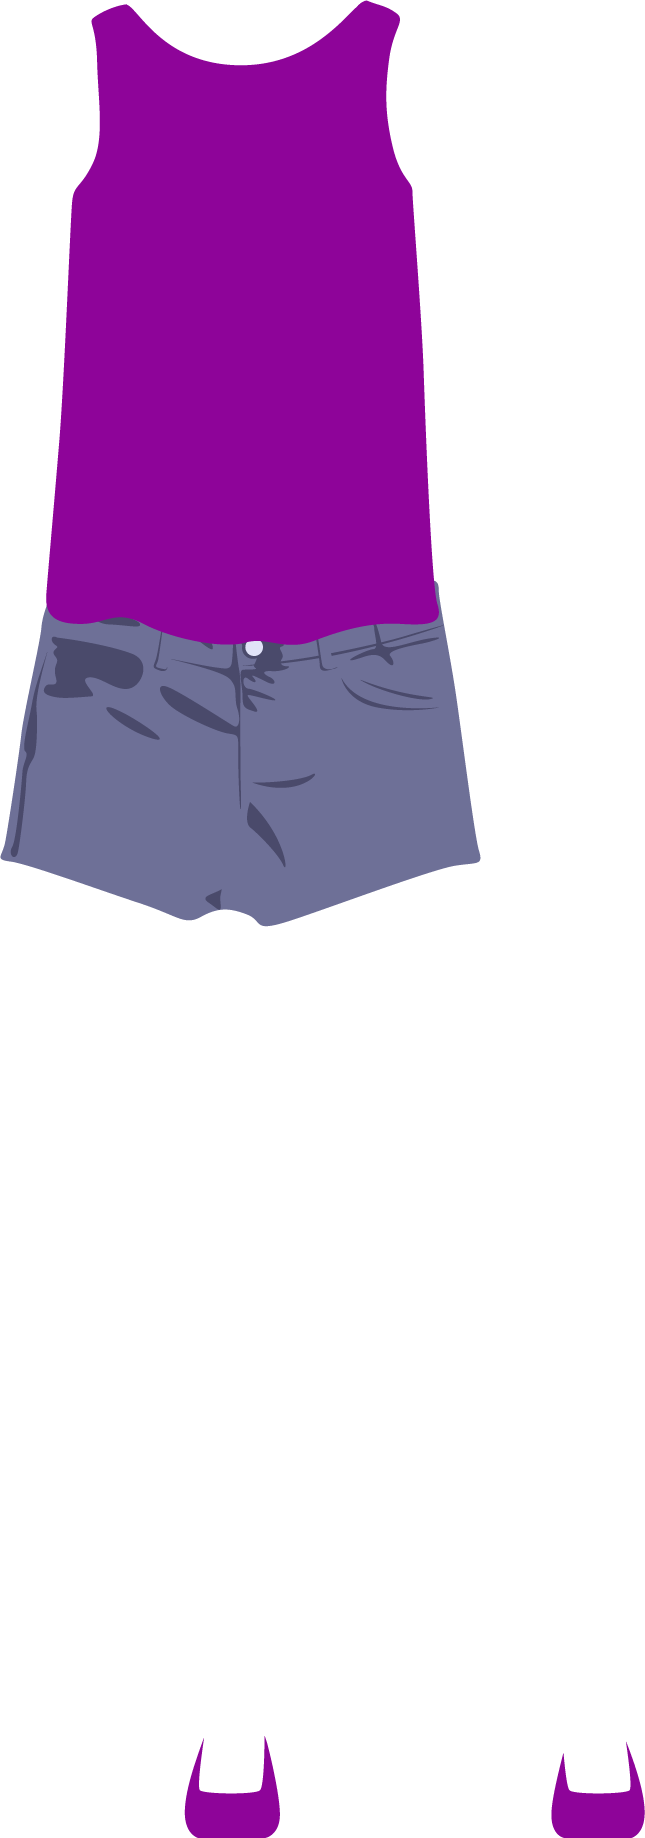
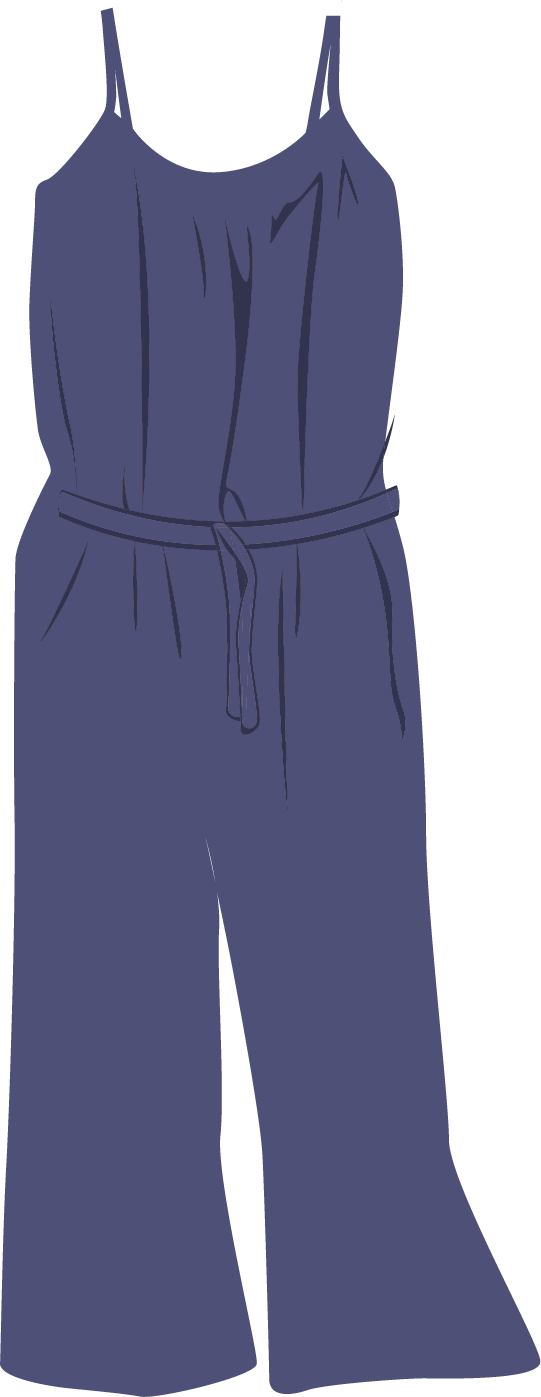
se agregaron opciones de ropa

diff --git a/modelo/Logica.js b/modelo/Logica.js
@@ -7,6 +7,9 @@ class Logica {
         this.pantallaInstru = new PantallaInstrucciones();
         this.pantallaCrea = new PantallaCrear();
         this.basePersonaje= new CuerpoBase();
+        this.outfit1= new Ropa();
+        this.outfit2= new Ropa();
+      
         this.pantalla = 0;
       //  let botonJugar;
     }
@@ -58,6 +61,18 @@ class Logica {
                         this.basePersonaje.dibujarBase();
                     }
                    
+                    if (this.outfit1.ropa1E==true){
+
+                        this.outfit1.dibujarRopa1();
+                        this.outfit2.ropa2E=false;
+
+                    }
+                    if (this.outfit2.ropa2E==true){
+
+                        this.outfit2.dibujarRopa2();
+                        this.outfit1.ropa1E=false;
+
+                    }
 
                 
 
@@ -138,6 +153,17 @@ class Logica {
                   if (mouseX >= 114 && mouseX <= 227 && mouseY >= 136 && mouseY <= 567) {
                     this.basePersonaje.moverBase();
                    }
+
+
+                   if (mouseX >= 460 && mouseX <= 549 && mouseY >= 406 && mouseY <= 492) {
+                    this.outfit1.ropa1E=true;
+                    this.outfit2.ropa2E=false;
+                   }
+                   if (mouseX >= 569 && mouseX <= 658 && mouseY >= 405 && mouseY <= 493) {
+                    this.outfit2.ropa2E=true;
+                    this.outfit1.ropa1E=false;
+                   }
+
 
 
 

diff --git a/modelo/Ropa.js b/modelo/Ropa.js
@@ -1,0 +1,40 @@
+class Ropa {
+
+    constructor(posX, posY) {
+
+        
+        this.ropa1 = loadImage("./data/Ropa1.png");
+        this.ropa2 = loadImage("./data/Ropa2.png");
+       // this.ropa3 = loadImage("./data/ropa3.png");
+        this.ropa2E = false;
+        this.ropa1E = false;
+       // this.ropa3E = false;
+        this.posX = posX;
+        this.posY = posY;
+
+    }
+
+    dibujarRopa1() {
+        if (this.ropa1E == true) {
+            imageMode(CENTER);
+            image(this.ropa1, 148, 307, 100, 160);
+        }
+
+
+
+    }
+    dibujarRopa2() {
+        if (this.ropa2E == true) {
+            imageMode(CENTER);
+            image(this.ropa2,  164, 369, 118,295);
+        }
+
+    }
+   
+
+
+
+
+
+
+}

diff --git a/index.html b/index.html
@@ -15,6 +15,9 @@
     <script src="./vista/pantallaInicial.js"></script>
     <script src="./vista/PantallaInstrucciones.js"></script>
     <script src="./vista/PantallaCrear.js"></script>
+    <script src="./modelo/Ropa.js"></script>
+    <script src="./modelo/Ojo.js"></script>
+    <script src="./modelo/Boca.js"></script>
     <script src="./vista/Ejecutable.js"></script>
 
 </body>

diff --git a/vista/PantallaCrear.js b/vista/PantallaCrear.js
@@ -2,7 +2,7 @@ class PantallaCrear {
 
     constructor(){
 
-        this.pantallaCrea = loadImage("./data/pantallaCreacion.jpg");
+        this.pantallaCrea = loadImage("./data/pantallaCreacion1.jpg");
         this.botonBase = loadImage("./data/base_1.png");
         this.activarBotonB=true;
      }
